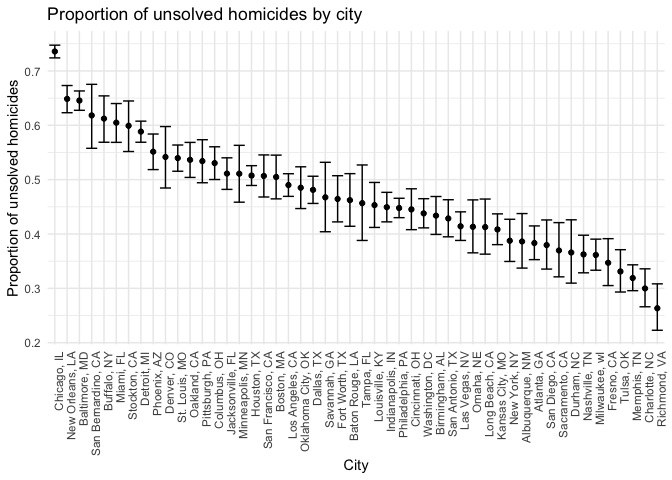
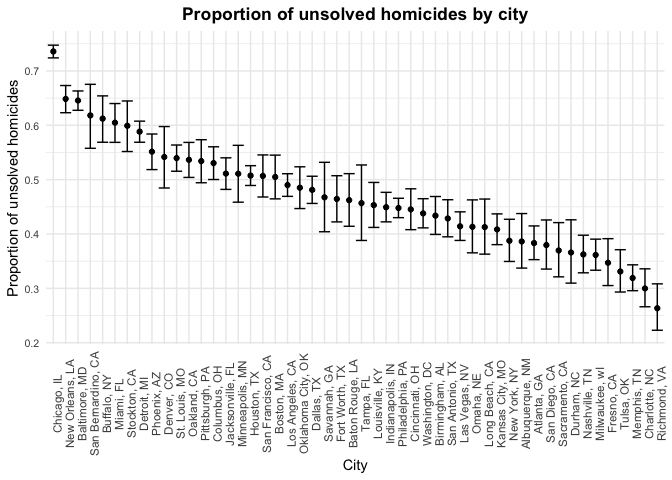
Question 1

diff --git a/hw5_mx2286.md b/hw5_mx2286.md
@@ -3,7 +3,41 @@ hw5_mx2286
 William Xie
 2024-11-15
 
-## Problem2
+# Problem 1: The Birthday Paradox
+
+``` r
+# Introduction
+# Given n people, we want to determine the probability that at least two share a birthday. 
+# Assume 365 uniformly distributed days and no leap years.
+
+# Simulation Function
+birthday_simulation <- function(n) {
+  any(duplicated(sample(1:365, n, replace = TRUE)))
+}
+
+# Running Simulations
+group_sizes <- 2:50
+num_simulations <- 10000
+
+probabilities <- sapply(group_sizes, function(n) {
+  mean(replicate(num_simulations, birthday_simulation(n)))
+})
+
+# Results
+plot(group_sizes, probabilities, type = 'b', pch = 19, col = 'blue',
+     xlab = 'Group Size',
+     ylab = 'Probability of Shared Birthday',
+     main = 'Probability of Shared Birthdays vs. Group Size')
+```
+
+![](hw5_mx2286_files/figure-gfm/unnamed-chunk-1-1.png)<!-- --> \# The
+probability of at least two people sharing a birthday rises sharply with
+group size. \# By group size 23, the probability exceeds 50%, a
+well-known result of the Birthday Paradox. \# As group size increases
+further, the probability approaches 1, making shared birthdays almost
+certain.
+
+# Problem2
 
 ``` r
 set.seed(1)
@@ -292,7 +326,39 @@ ggplot(prop_test_results, aes(x = reorder(city_state, -proportion), y = proporti
     y = "Proportion of unsolved homicides"
   ) +
   theme_minimal()+
-  theme(axis.text.x = element_text(angle = 90, hjust = 1))
+  theme(axis.text.x = element_text(angle = 90, hjust = 0.5),
+  axis.text.y = element_text(size = 8),
+    plot.title = element_text(face = "bold", hjust = 0.5),
+    plot.caption = element_text(hjust = 0))
 ```
 
 ![](hw5_mx2286_files/figure-gfm/Create%20a%20plot%20that%20shows%20the%20estimates%20and%20CIs%20for%20each%20city-1.png)<!-- -->
+\# Variation Across Cities: \# There is substantial variation in the
+proportion of unsolved homicides across different cities. \# For
+instance, Chicago, IL and Baltimore, MD have a high proportion of
+unsolved cases, \# suggesting potential issues in law enforcement or
+community cooperation.
+
+# Confidence Intervals:
+
+# Confidence intervals provide a range of uncertainty around the estimated proportions.
+
+# Cities with wide intervals may have smaller sample sizes, resulting in less precise estimates.
+
+# Implications:
+
+# High proportions of unsolved homicides could indicate challenges related to resources,
+
+# socio-economic factors, or other underlying issues. Policymakers and law enforcement agencies
+
+# can use this information to allocate resources more effectively.
+
+# Summary:
+
+# The analysis reveals that several large cities struggle with high proportions of unsolved homicides.
+
+# Baltimore, MD has approximately 64.56% unsolved homicides, and cities like Chicago, IL and New Orleans, LA
+
+# also have significant challenges. The visualization highlights disparities across cities, emphasizing
+
+# the need for targeted interventions to improve homicide resolution rates.
